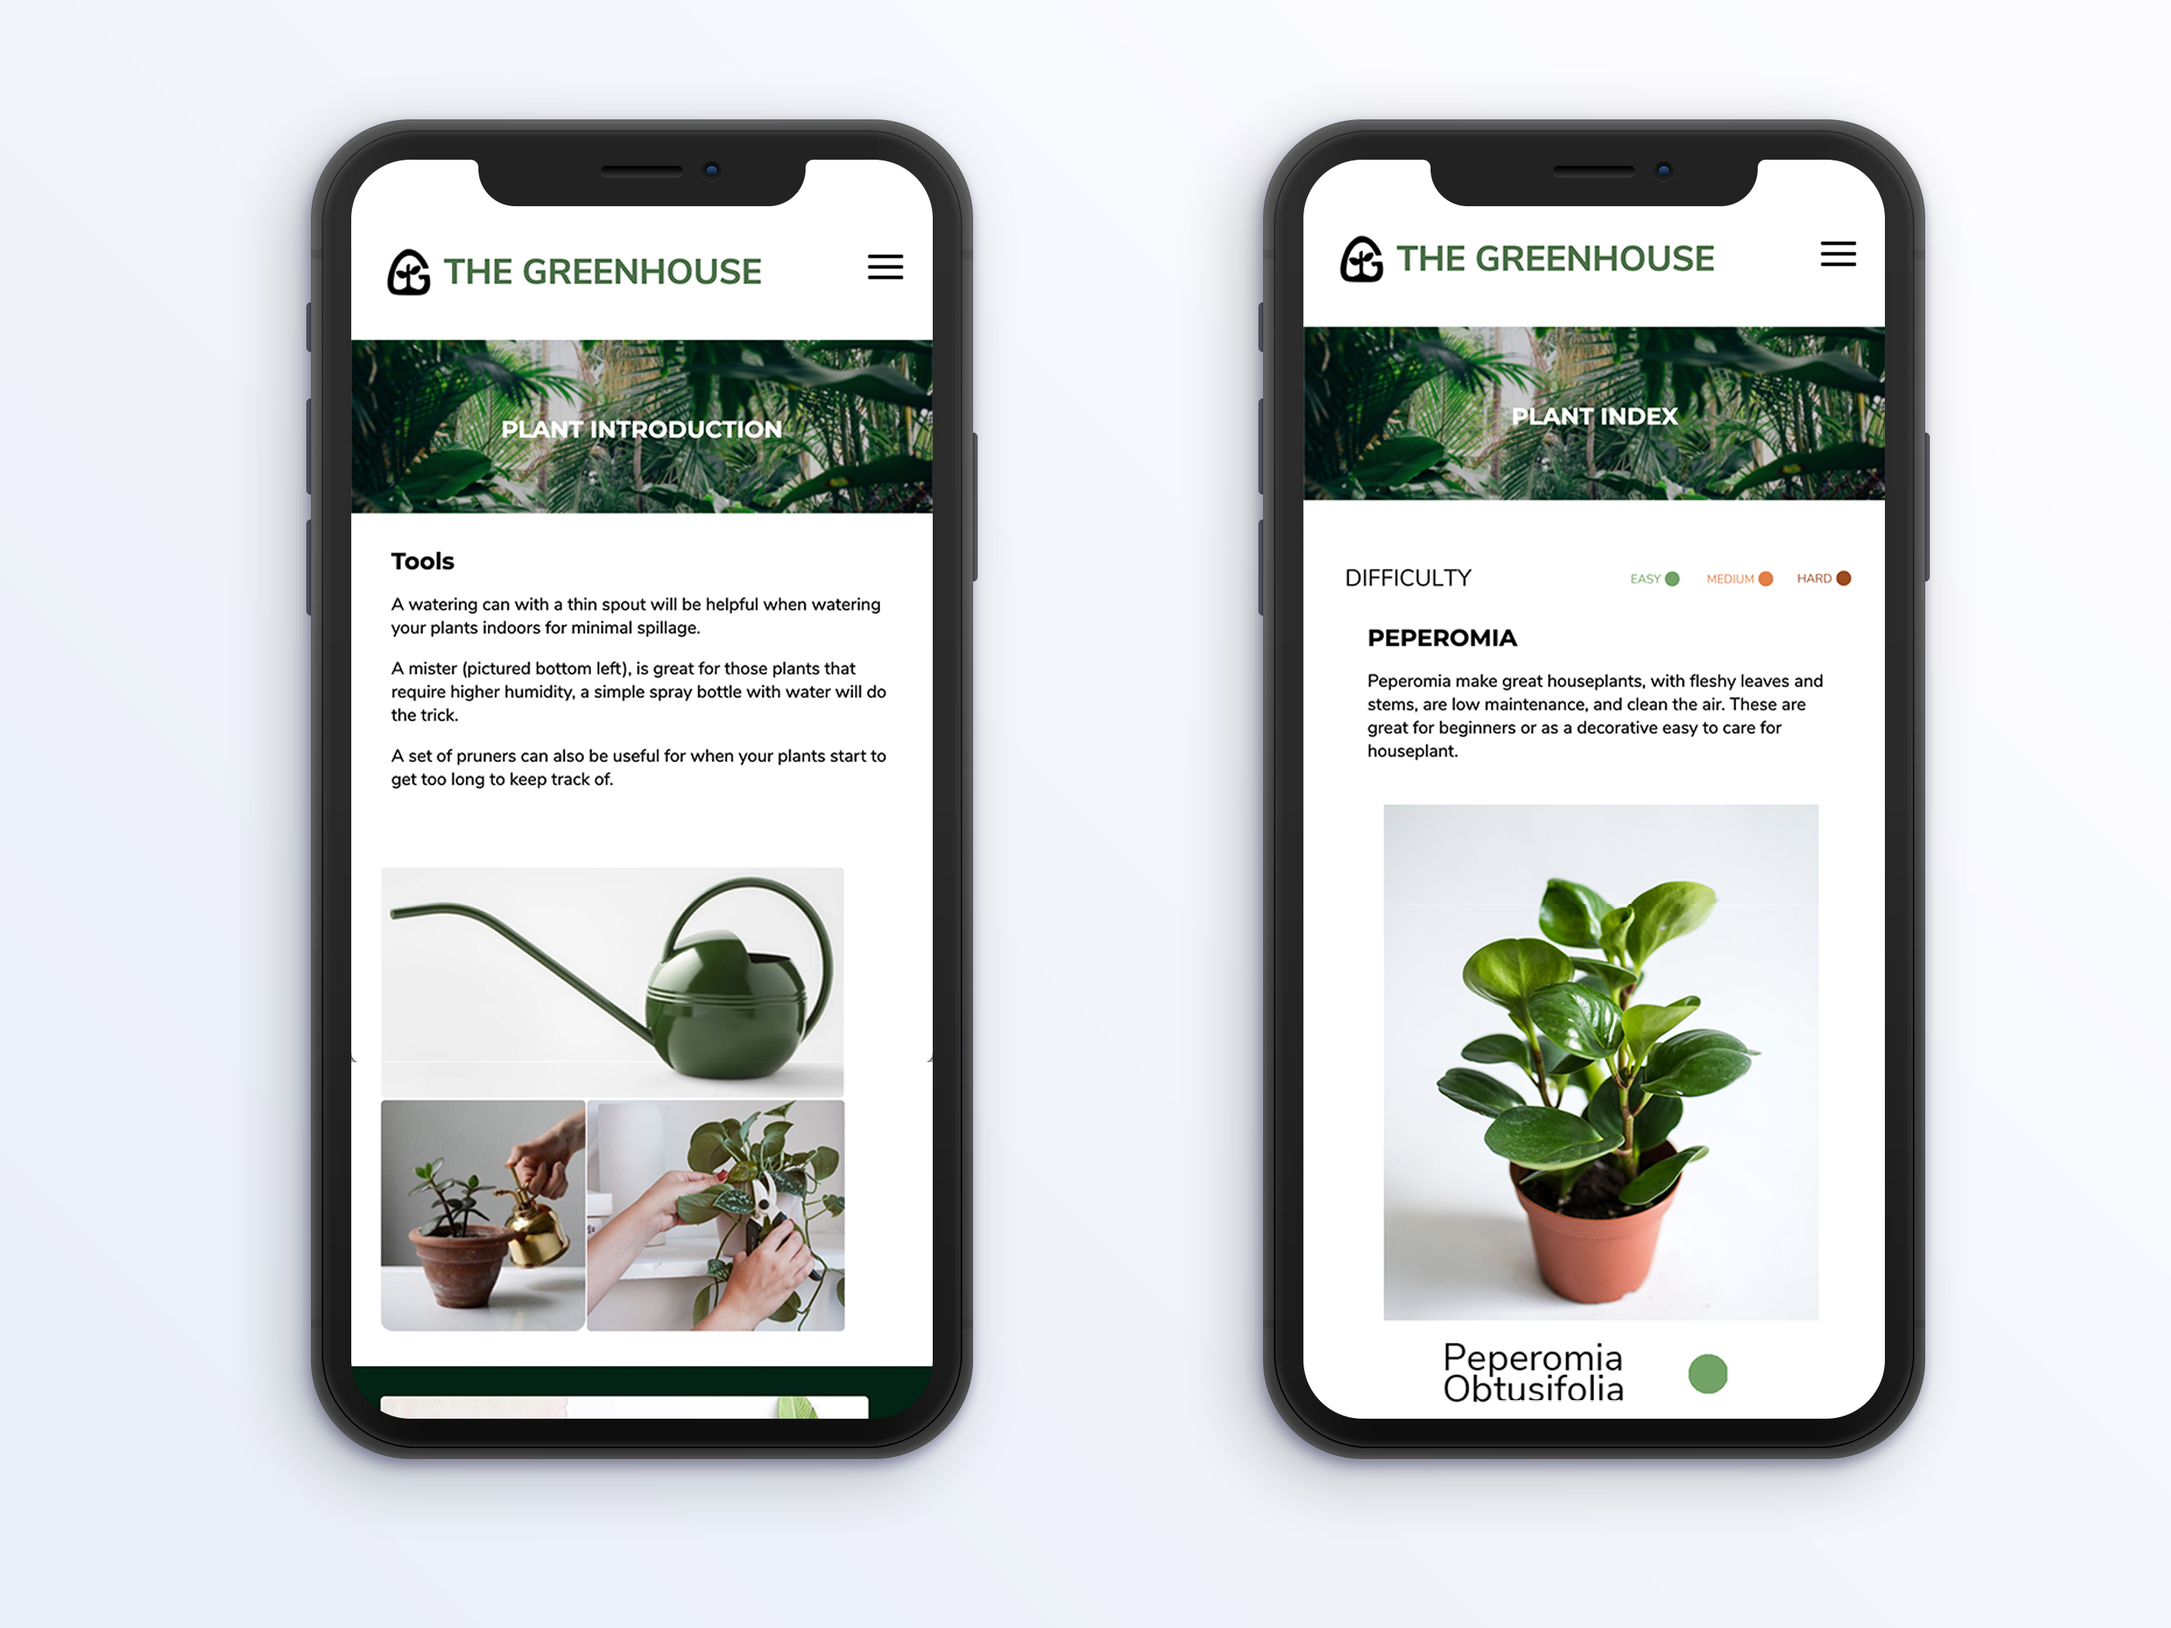
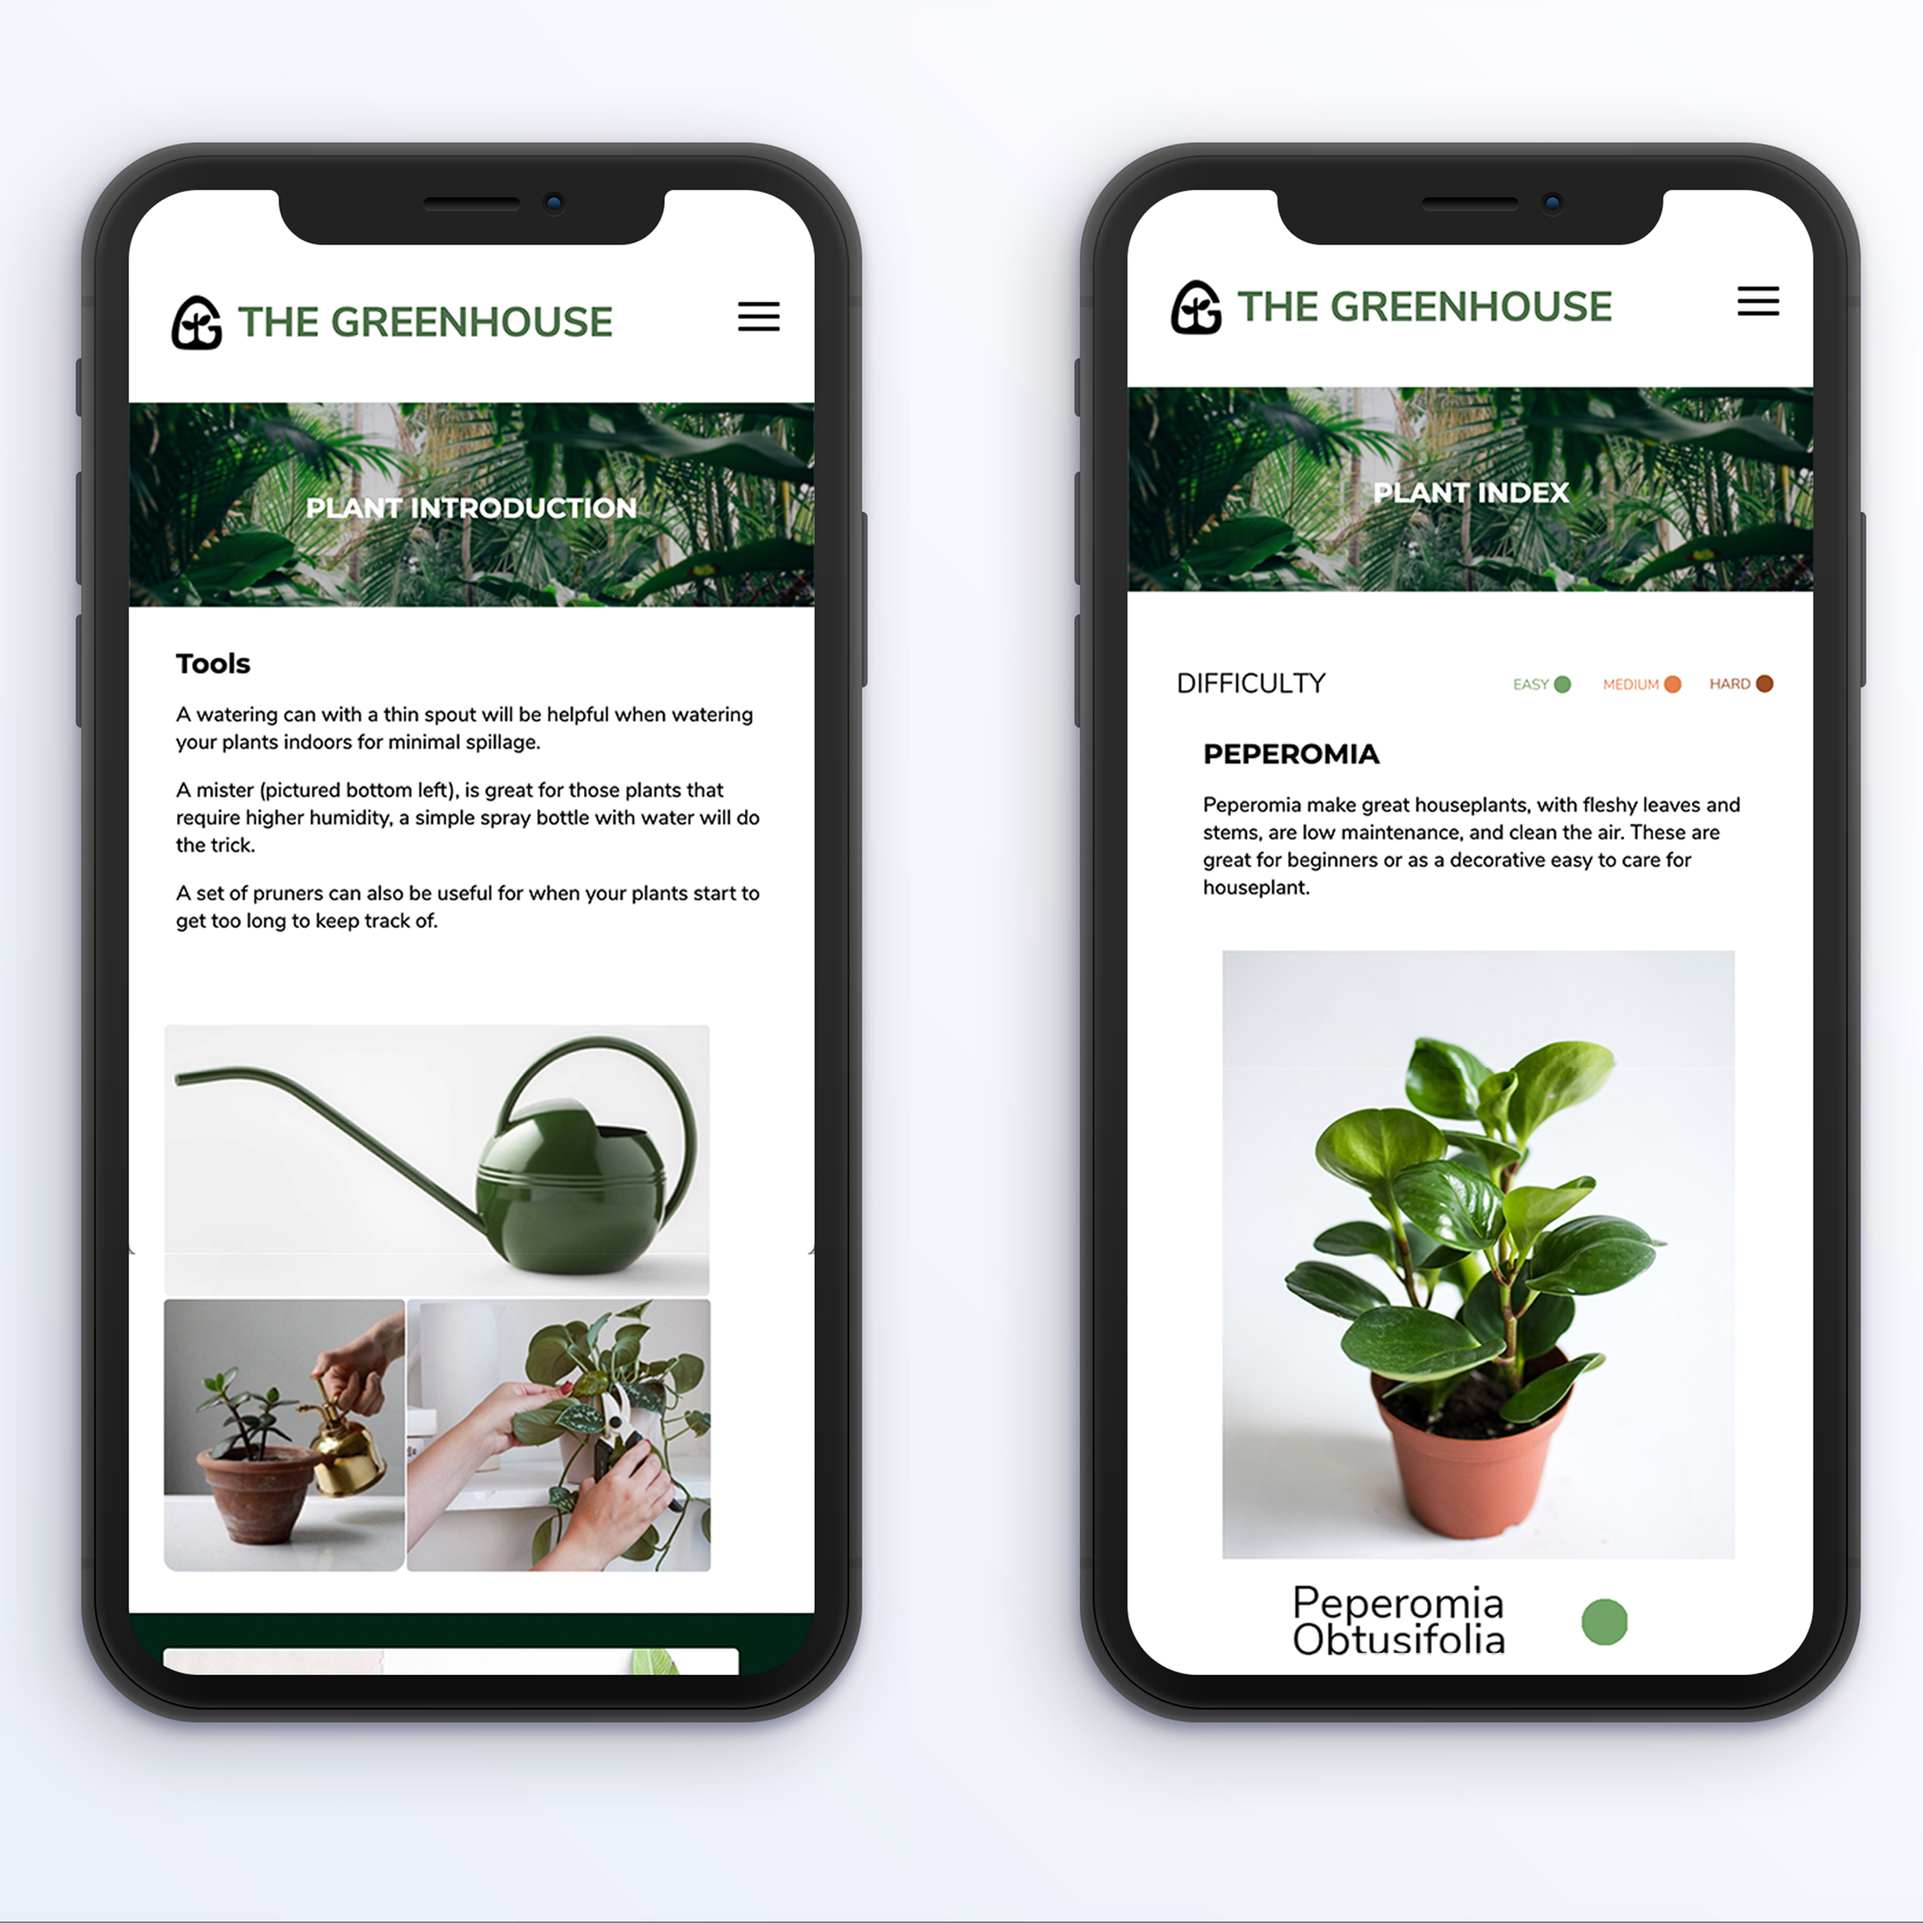
fixed the sizing of the photos

diff --git a/website.html b/website.html
@@ -76,10 +76,17 @@
 
     <section id="layout">
       <div class="white-block A">
-         <div class="header-index"></div>
-            <img src="images/heroShot1.jpg"/>
+         <div class="header-index">Hero Shot</div> 
+        <p>
+          When watering it’s better a little dry than too wet, once the water
+          starts to drip through the drainage holes, you’re good.
+        </p>
+        <p>
+          Your plants require less water in winter as a result of a slower
+          growth rate.
+        </p>
       </div>
-
+     
       <div class="white-block B">
         <img src="images/phoneWeb.jpg"/>
       </div>

diff --git a/style/graphic.css b/style/graphic.css
@@ -103,7 +103,7 @@ p {
 
 .white-block img {
     width: 460px;
-    height: 410px;
+    height: 460px;
 }
 
 /*----------------DARK SECTION------------------*/

diff --git a/style/website.css b/style/website.css
@@ -105,7 +105,7 @@ p {
 
 .white-block img {
     width: 460px;
-    height: 410px;
+    height: 460px;
 }
 
 /*----------------DARK SECTION------------------*/
